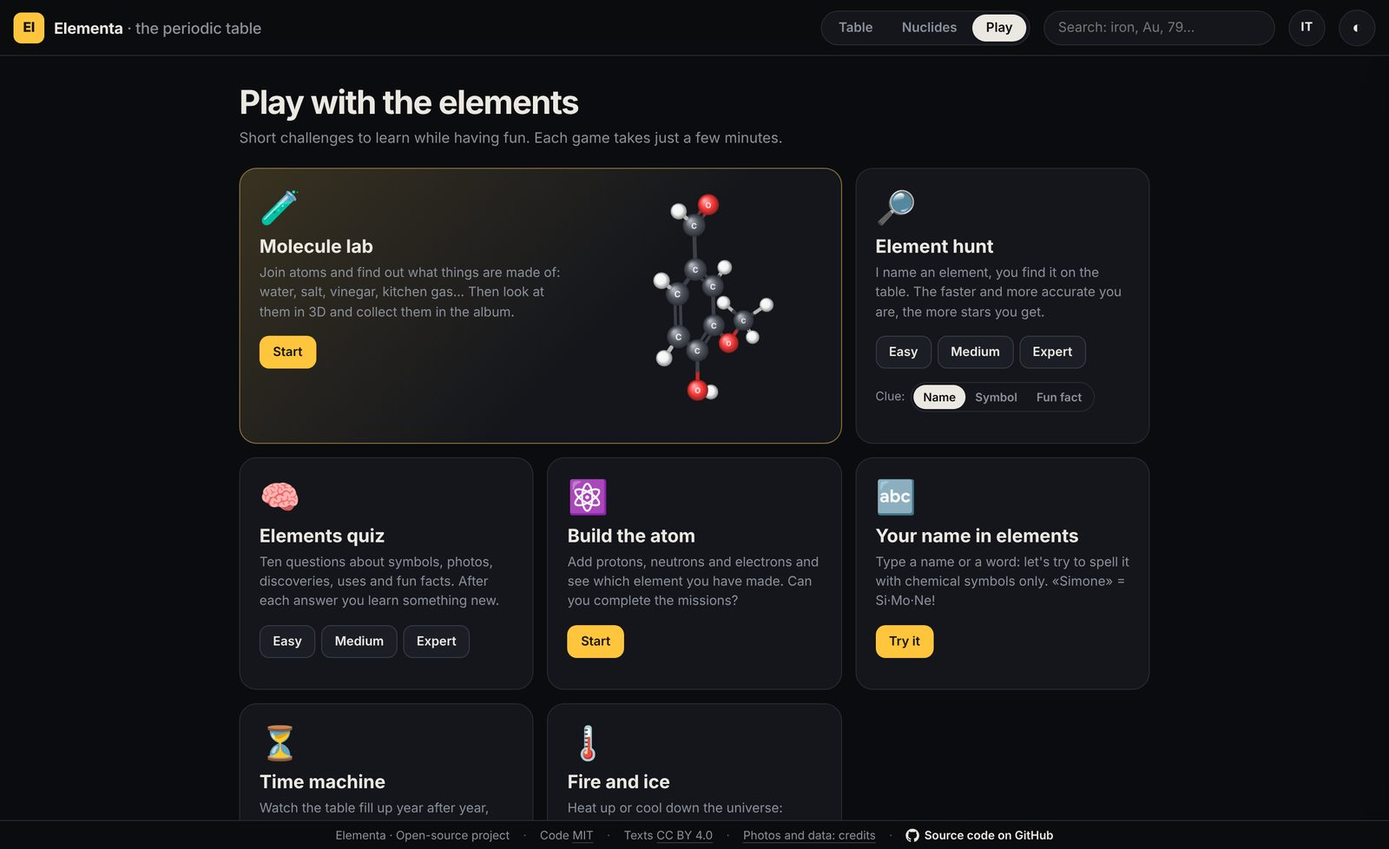
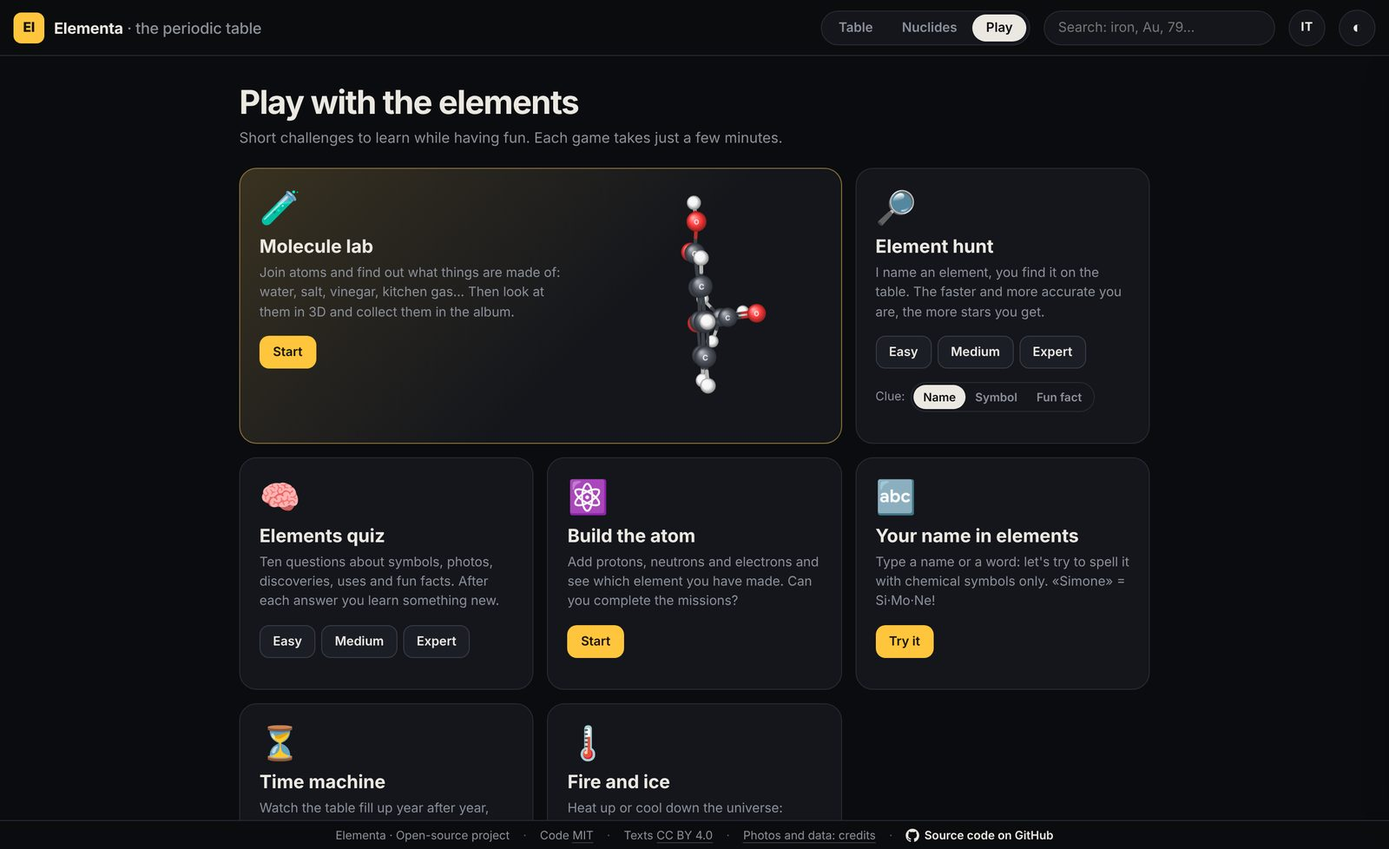
Molecule lab: atoms take the real shape; clearer electron cloud
- when a molecule is recognised the bench atoms glide into a projection of
  its real 3D geometry (skeleton face-on, slight tilt so no atom hides
  another, turned to match how it was built; back atoms smaller and darker);
  the 3D viewer starts from the same view
- measured gas-phase geometries for 16 small molecules where the force
  field was wrong (N2, HCl, CO2, SO2, CaCl2, NaOH...)
- electron cloud: soft glow per shell and bigger, more opaque dots,
  darker blue on the light theme

Claude-Session: https://claude.ai/code/session_01Aqc8M5EsAKSvzBTuftg5B6

Changed region(s): [[0.4688, 0.2147, 0.5625, 0.4908]]

diff --git a/lab.js b/lab.js
@@ -6,7 +6,7 @@ const MCOL = { H: '#f4f4f4', C: '#50555f', N: '#3d6bff', O: '#ff3b3b', S: '#f5c5
 const MRAD = { H: 0.26, C: 0.38, N: 0.37, O: 0.36, F: 0.34, S: 0.46, P: 0.46, Cl: 0.45, Na: 0.52, K: 0.56, Ca: 0.52 };   // ball size (Å)
 const VDW = { H: 1.1, C: 1.7, N: 1.55, O: 1.52, F: 1.47, S: 1.8, P: 1.8, Cl: 1.75, Na: 2.0, K: 2.2, Ca: 2.0 };          // space-filling (Å)
 const molInk = el => ['H', 'S', 'F'].includes(el) ? '#1a1b1f' : '#fff';
-function shade(hex, k) {   // k > 0 lighter, k < 0 darker
+function molShade(hex, k) {   // k > 0 lighter, k < 0 darker
   const n = parseInt(hex.slice(1), 16), c = [n >> 16, n >> 8 & 255, n & 255].map(v => Math.round(k > 0 ? v + (255 - v) * k : v * (1 + k)));
   return `rgb(${c})`;
 }
@@ -58,12 +58,12 @@ class Mol3D {
         for (let j = 0; j < it.o; j++) {
           const off = (j - (it.o - 1) / 2) * gap, ox = nx * off, oy = ny * off, mx = (A.X + B.X) / 2 + ox, my = (A.Y + B.Y) / 2 + oy;
           c.lineCap = 'round'; c.lineWidth = it.o > 1 ? lw * 0.75 : lw;
-          c.strokeStyle = shade(MCOL[A.el], -0.25); c.beginPath(); c.moveTo(A.X + ox, A.Y + oy); c.lineTo(mx, my); c.stroke();
+          c.strokeStyle = molShade(MCOL[A.el], -0.25); c.beginPath(); c.moveTo(A.X + ox, A.Y + oy); c.lineTo(mx, my); c.stroke();
         }
       } else {
         const p = P[it.i], r = (space ? VDW[p.el] * 0.95 : MRAD[p.el]) * s * p.k, col = MCOL[p.el];
         const g = c.createRadialGradient(p.X - r * 0.35, p.Y - r * 0.4, r * 0.1, p.X, p.Y, r);
-        g.addColorStop(0, shade(col, 0.55)); g.addColorStop(0.55, col); g.addColorStop(1, shade(col, -0.45));
+        g.addColorStop(0, molShade(col, 0.55)); g.addColorStop(0.55, col); g.addColorStop(1, molShade(col, -0.45));
         c.fillStyle = g; c.beginPath(); c.arc(p.X, p.Y, r, 0, 7); c.fill();
         if (r > 9 && (!space || p.el !== 'H' || r > 14)) {
           c.fillStyle = molInk(p.el); c.globalAlpha = 0.85; c.font = `700 ${Math.min(18, r * 0.75) | 0}px Inter,system-ui,sans-serif`;
@@ -234,7 +234,7 @@ App.lab = (() => {
       }
       return false;
     };
-    return go(0);
+    return go(0) ? map : null;
   }
   function analyse() {
     if (!S.atoms.length) return { st: 'empty' };
@@ -246,16 +246,97 @@ App.lab = (() => {
     const idx = new Map(S.atoms.map((a, i) => [a.id, i]));
     const G = graphOf(S.atoms.map(a => a.el), S.bonds.map(b => [idx.get(b.a), idx.get(b.b), b.o]));
     const same = buildable().filter(m => m.key === countKey(cnt));
-    const hit = same.find(m => isomorphic(G, graphOf(m.atoms, m.bonds)));
-    if (hit) return { st: 'hit', f, m: hit };
+    for (const m of same) { const map = isomorphic(G, graphOf(m.atoms, m.bonds)); if (map) return { st: 'hit', f, m, map }; }
     return { st: same.length ? 'isomer' : 'unknown', f, m: same[0] };
   }
 
+  /* --- true shape: when a molecule is recognised the atoms move to a projection of its real 3D geometry --- */
+  const PX = 64;   // pixels per ångström on the bench
+  let shown = null, anim = 0;
+  function eig3(A) {   // eigenvectors of a symmetric 3×3 matrix (Jacobi), largest eigenvalue first
+    const a = A.map(r => [...r]), v = [[1, 0, 0], [0, 1, 0], [0, 0, 1]];
+    for (let it = 0; it < 30; it++) for (const [p, q] of [[0, 1], [0, 2], [1, 2]]) {
+      if (Math.abs(a[p][q]) < 1e-12) continue;
+      const th = 0.5 * Math.atan2(2 * a[p][q], a[q][q] - a[p][p]), c = Math.cos(th), sn = Math.sin(th);
+      for (let k = 0; k < 3; k++) { const x = a[k][p], y = a[k][q]; a[k][p] = c * x - sn * y; a[k][q] = sn * x + c * y; }
+      for (let k = 0; k < 3; k++) { const x = a[p][k], y = a[q][k]; a[p][k] = c * x - sn * y; a[q][k] = sn * x + c * y; }
+      for (let k = 0; k < 3; k++) { const x = v[k][p], y = v[k][q]; v[k][p] = c * x - sn * y; v[k][q] = sn * x + c * y; }
+    }
+    return [0, 1, 2].sort((i, j) => a[j][j] - a[i][i]).map(i => [v[0][i], v[1][i], v[2][i]]);
+  }
+  const cross = (a, b) => [a[1] * b[2] - a[2] * b[1], a[2] * b[0] - a[0] * b[2], a[0] * b[1] - a[1] * b[0]];
+  const mul = (R, p) => R.map(r => r[0] * p[0] + r[1] * p[1] + r[2] * p[2]);
+  const mmul = (A, B) => A.map(r => [0, 1, 2].map(j => r[0] * B[0][j] + r[1] * B[1][j] + r[2] * B[2][j]));
+  function randRot(seed) {   // repeatable random rotation from a quaternion
+    let x = seed * 9301 + 49297; const rnd = () => (x = (x * 9301 + 49297) % 233280) / 233280;
+    const u1 = rnd(), u2 = rnd() * 2 * Math.PI, u3 = rnd() * 2 * Math.PI, a = Math.sqrt(1 - u1), b = Math.sqrt(u1);
+    const [qw, qx, qy, qz] = [a * Math.sin(u2), a * Math.cos(u2), b * Math.sin(u3), b * Math.cos(u3)];
+    return [[1 - 2 * (qy * qy + qz * qz), 2 * (qx * qy - qz * qw), 2 * (qx * qz + qy * qw)],
+      [2 * (qx * qy + qz * qw), 1 - 2 * (qx * qx + qz * qz), 2 * (qy * qz - qx * qw)],
+      [2 * (qx * qz - qy * qw), 2 * (qy * qz + qx * qw), 1 - 2 * (qx * qx + qy * qy)]];
+  }
+  // viewing direction: the skeleton (atoms other than H) seen face-on, tilted just enough that no atoms hide each other
+  const rotX = t => [[1, 0, 0], [0, Math.cos(t), -Math.sin(t)], [0, Math.sin(t), Math.cos(t)]];
+  const rotY = t => [[Math.cos(t), 0, Math.sin(t)], [0, 1, 0], [-Math.sin(t), 0, Math.cos(t)]];
+  function bestView(m) {
+    const P = m.atoms.map(([, x, y, z]) => [x, y, z]), n = P.length;
+    if (n < 3) return [[1, 0, 0], [0, 1, 0], [0, 0, 1]];
+    const heavy = m.atoms.filter(a => a[0] !== 'H').length >= 3 ? P.filter((p, i) => m.atoms[i][0] !== 'H') : P;
+    const c = [0, 1, 2].map(k => heavy.reduce((s, p) => s + p[k], 0) / heavy.length);
+    const C = [0, 1, 2].map(i => [0, 1, 2].map(j => heavy.reduce((s, p) => s + (p[i] - c[i]) * (p[j] - c[j]), 0)));
+    const [e1, e2] = eig3(C), pca = [e1, e2, cross(e1, e2)];
+    const minDist = R => { const Q = P.map(p => mul(R, p)); let md = 9; for (let i = 0; i < n; i++) for (let j = i + 1; j < n; j++) md = Math.min(md, Math.hypot(Q[i][0] - Q[j][0], Q[i][1] - Q[j][1])); return md; };
+    let best = null, bestTilt = 9, fallback = pca, fbScore = -1;
+    for (let i = -6; i <= 6; i++) for (let j = -6; j <= 6; j++) {
+      const R = mmul(rotX(i * 0.07), mmul(rotY(j * 0.07), pca)), md = minDist(R), tilt = Math.hypot(i, j);
+      if (md >= 0.6 && tilt < bestTilt) { bestTilt = tilt; best = R; }
+      if (md > fbScore) { fbScore = md; fallback = R; }
+    }
+    if (best) return best;
+    for (let k = 1; k <= 120; k++) { const R = randRot(k), md = minDist(R); if (md > fbScore) { fbScore = md; fallback = R; } }
+    return fallback;
+  }
+  function snapShape(r) {
+    const m = r.m, idx = S.atoms.map((a, i) => i), R0 = bestView(m);
+    const Q = m.atoms.map(([, x, y, z]) => mul(R0, [x, y, z]));
+    // user atoms (y up) and their partners in the catalogue, both centred
+    const U = S.atoms.map(a => [a.x, -a.y]), T = idx.map(i => Q[r.map[i]]);
+    const uc = [0, 1].map(k => U.reduce((s, p) => s + p[k], 0) / U.length), tc = [0, 1, 2].map(k => T.reduce((s, p) => s + p[k], 0) / T.length);
+    const u = U.map(p => [p[0] - uc[0], p[1] - uc[1]]), tt = T.map(p => [p[0] - tc[0], p[1] - tc[1], p[2] - tc[2]]);
+    // turn (and if better, flip) the shape to look as much as possible like what was built
+    let bestR = null, bestErr = Infinity;
+    for (const flip of [1, -1]) {
+      const q = tt.map(p => [p[0], p[1] * flip]);
+      let sxx = 0, sxy = 0; q.forEach((p, i) => { sxx += p[0] * u[i][0] + p[1] * u[i][1]; sxy += p[0] * u[i][1] - p[1] * u[i][0]; });
+      const th = Math.atan2(sxy, sxx), c = Math.cos(th), sn = Math.sin(th);
+      const err = q.reduce((s, p, i) => s + (c * p[0] - sn * p[1] - u[i][0] / PX) ** 2 + (sn * p[0] + c * p[1] - u[i][1] / PX) ** 2, 0);
+      if (err < bestErr) { bestErr = err; bestR = mmul([[c, -sn, 0], [sn, c, 0], [0, 0, 1]], mmul([[1, 0, 0], [0, flip, 0], [0, 0, flip]], R0)); }
+    }
+    const V = m.atoms.map(([, x, y, z]) => mul(bestR, [x, y, z])), vc = [0, 1, 2].map(k => V.reduce((s, p) => s + p[k], 0) / V.length);
+    const W = V.map(p => [p[0] - vc[0], p[1] - vc[1], p[2] - vc[2]]);
+    // scale to fit the bench, then centre where the molecule already was
+    const ex = Math.max(...W.map(p => Math.abs(p[0]))), ey = Math.max(...W.map(p => Math.abs(p[1])));
+    const s = Math.min(PX, (svgSize.w / 2 - 34) / (ex || 1), (svgSize.h / 2 - 34) / (ey || 1));
+    const cx = clamp(uc[0], ex * s + 30, svgSize.w - ex * s - 30), cy = clamp(-uc[1], ey * s + 30, svgSize.h - ey * s - 30);
+    const to = S.atoms.map((a, i) => { const p = W[r.map[i]]; return { x: cx + p[0] * s, y: cy - p[1] * s, z: p[2] * s }; });
+    shown = { id: m.id, mol: { ...m, atoms: m.atoms.map(([el], i) => [el, ...W[i]]) } };
+    const from = S.atoms.map(a => ({ x: a.x, y: a.y, z: a.z || 0 })), t0 = performance.now(), tok = ++anim;
+    const step = now => {
+      if (tok !== anim || !$('#lab-ws')) return;
+      const k = Math.min(1, (now - t0) / 750), e = 1 - (1 - k) ** 3;
+      S.atoms.forEach((a, i) => { a.x = from[i].x + (to[i].x - from[i].x) * e; a.y = from[i].y + (to[i].y - from[i].y) * e; a.z = from[i].z + (to[i].z - from[i].z) * e; });
+      renderWs(); if (k < 1) requestAnimationFrame(step);
+    };
+    requestAnimationFrame(step);
+  }
+
   function changed() {
-    renderWs();
+    anim++;
     const r = analyse(), key = r.st === 'hit' ? r.m.id : null;
+    if (!key) { shown = null; S.atoms.forEach(a => { a.z = 0; }); }
+    renderWs();
     const fresh = key && key !== last;
-    if (fresh) celebrate(r.m);
+    if (fresh) { snapShape(r); celebrate(r.m); }
     last = key; renderSide(r);
     // on phones the result card is below the bench: bring it into view
     if (fresh && innerWidth <= 820) setTimeout(() => { const sd = $('#lab-side'); if (sd) sd.scrollIntoView({ behavior: 'smooth', block: 'start' }); }, 700);
@@ -311,15 +392,15 @@ App.lab = (() => {
   }
   function renderWs() {
     const svg = $('#lab-ws'); if (!svg) return;
-    let s = '<defs>' + PALETTE.map(el => `<radialGradient id="mg-${el}" cx="35%" cy="32%" r="75%"><stop offset="0" stop-color="${shade(MCOL[el], 0.55)}"/><stop offset=".6" stop-color="${MCOL[el]}"/><stop offset="1" stop-color="${shade(MCOL[el], -0.4)}"/></radialGradient>`).join('') + '</defs>';
+    let s = '<defs>' + PALETTE.map(el => `<radialGradient id="mg-${el}" cx="35%" cy="32%" r="75%"><stop offset="0" stop-color="${molShade(MCOL[el], 0.55)}"/><stop offset=".6" stop-color="${MCOL[el]}"/><stop offset="1" stop-color="${molShade(MCOL[el], -0.4)}"/></radialGradient>`).join('') + '</defs>';
     S.bonds.forEach((b, i) => {
       const A = atom(b.a), B = atom(b.b), dx = B.x - A.x, dy = B.y - A.y, L = Math.hypot(dx, dy) || 1, nx = -dy / L * 7, ny = dx / L * 7;
       s += `<g class="bond" data-b="${i}"><line class="hit" x1="${A.x}" y1="${A.y}" x2="${B.x}" y2="${B.y}"/>`;
       for (let j = 0; j < b.o; j++) { const k = j - (b.o - 1) / 2; s += `<line x1="${A.x + nx * k}" y1="${A.y + ny * k}" x2="${B.x + nx * k}" y2="${B.y + ny * k}"/>`; }
       s += '</g>';
     });
-    S.atoms.forEach(a => {
-      const r = RAD(a.el), hd = hands(a.id), ok = done(a.id);
+    [...S.atoms].sort((p, q) => (p.z || 0) - (q.z || 0)).forEach(a => {
+      const dz = clamp((a.z || 0) / 90, -0.45, 0.45), r = RAD(a.el) * (1 + dz * 0.5), hd = hands(a.id), ok = done(a.id);
       let dots = '';
       if (!ok && hd > 0) {
         const taken = bondsOf(a.id).map(b => { const o = atom(other(b, a.id)); return Math.atan2(o.y - a.y, o.x - a.x); });
@@ -332,7 +413,7 @@ App.lab = (() => {
         dots = angs.map(ang => `<circle class="hand" cx="${a.x + Math.cos(ang) * (r + 8)}" cy="${a.y + Math.sin(ang) * (r + 8)}" r="4.2"/>`).join('');
       }
       s += `<g class="atom${S.sel === a.id ? ' sel' : ''}${ok ? ' ok' : ''}" data-a="${a.id}">${S.sel === a.id ? `<circle class="ring" cx="${a.x}" cy="${a.y}" r="${r + 7}"/>` : ''}${dots}
-        <circle cx="${a.x}" cy="${a.y}" r="${r}" fill="url(#mg-${a.el})"/><text x="${a.x}" y="${a.y + 1}" fill="${molInk(a.el)}" font-size="${a.el.length > 1 ? 15 : 17}">${a.el}</text></g>`;
+        <circle cx="${a.x}" cy="${a.y}" r="${r}" fill="url(#mg-${a.el})"/>${dz < -0.05 ? `<circle class="shade" cx="${a.x}" cy="${a.y}" r="${r}" fill-opacity="${(-dz * 0.9).toFixed(2)}"/>` : ''}<text x="${a.x}" y="${a.y + 1}" fill="${molInk(a.el)}" font-size="${(a.el.length > 1 ? 15 : 17) * (1 + dz * 0.4)}">${a.el}</text></g>`;
     });
     if (!S.atoms.length) s += `<text class="ws-empty" x="${svgSize.w / 2}" y="${svgSize.h / 2}">${t('lab.empty')}</text>`;
     svg.innerHTML = s;
@@ -345,6 +426,7 @@ App.lab = (() => {
     svg.addEventListener('pointerdown', e => {
       const ga = e.target.closest('[data-a]'), gb = e.target.closest('[data-b]');
       if (ga) {
+        anim++;
         const a = atom(+ga.dataset.a), p = pt(e);
         d = { id: a.id, sx: e.clientX, sy: e.clientY, ox: a.x - p.x, oy: a.y - p.y, moved: false };
         svg.setPointerCapture(e.pointerId);
@@ -377,8 +459,9 @@ App.lab = (() => {
   function viewerHTML(id) {
     return `<div class="mol-view"><canvas id="${id}"></canvas><span class="seg mol-mode"><button data-mode="ball" class="active">${t('lab.balls')}</button><button data-mode="space">${t('lab.space')}</button></span><span class="mol-tip">${t('lab.rotate')}</span></div>`;
   }
-  function wireViewer(box, m) {
+  function wireViewer(box, m, same) {
     const v = new Mol3D(box.querySelector('canvas'), m);
+    if (same) { v.yaw = 0; v.pitch = 0; v.auto = false; v.rest = performance.now(); }
     box.querySelectorAll('[data-mode]').forEach(b => b.onclick = () => { v.mode = b.dataset.mode; box.querySelectorAll('[data-mode]').forEach(x => x.classList.toggle('active', x === b)); });
     box.parentElement.querySelectorAll('[data-z]').forEach(c => c.onclick = () => App.panel.openElement(+c.dataset.z));
   }
@@ -397,7 +480,7 @@ App.lab = (() => {
     let st;
     if (r.st === 'hit') {
       const m = r.m;
-      st = `<div class="mol-card"><div class="mol-title"><span class="mol-f">${m.f}</span><h2>${esc(mtx(m).n)}</h2></div>${viewerHTML('lab-3d')}${infoHTML(m)}
+      st = `<div class="mol-card"><div class="mol-title"><span class="mol-f">${m.f}</span><h2>${esc(mtx(m).n)}</h2></div><p class="note lab-shape">${t('lab.shape')}</p>${viewerHTML('lab-3d')}${infoHTML(m)}
         <button class="btn primary" id="lab-again" style="margin-top:12px;width:100%">${t('lab.again')}</button></div>`;
     } else {
       const msg = { empty: t('lab.start'), open: S.sel ? t('lab.selected', esc(nm(App.E[ZOF[atom(S.sel).el] - 1]))) : t('lab.free', r.free), pieces: t('lab.pieces', r.parts),
@@ -409,7 +492,7 @@ App.lab = (() => {
     const sk = $('#lab-skip'); if (sk) sk.onclick = ev => { ev.preventDefault(); store.set('labMission', store.get('labMission', 0) + 1); renderSide(r); };
     const ag = $('#lab-again'); if (ag) ag.onclick = () => { snap(); S = { atoms: [], bonds: [], sel: null, next: S.next }; changed(); };
     $('#lab-album').onclick = albumView;
-    if (r.st === 'hit') wireViewer(side.querySelector('.mol-view'), r.m);
+    if (r.st === 'hit') { const own = shown && shown.id === r.m.id; wireViewer(side.querySelector('.mol-view'), own ? shown.mol : r.m, own); }
   }
 
   /* --- album --- */

diff --git a/i18n.js b/i18n.js
@@ -141,7 +141,7 @@ const STR = {
     'lab.allDone': 'Hai completato tutte le missioni! 🏆 Costruisci quello che vuoi o guarda le molecole famose nell\'album.',
     'lab.where': 'Dove si trova:', 'lab.use': 'A cosa serve:', 'lab.fun': 'Lo sapevi?', 'lab.again': 'Costruisci un\'altra molecola',
     'lab.ionicT': 'Un composto ionico', 'lab.ionic': 'Qui un atomo cede uno o più elettroni all\'altro: diventano ioni con carica opposta e si attirano. Nel solido non ci sono coppie separate ma un cristallo con miliardi di ioni in fila. Nel gioco lo disegniamo come una molecola per semplicità.',
-    'lab.balls': 'Sfere e bastoncini', 'lab.space': 'Volume', 'lab.rotate': 'Trascina per ruotare', 'lab.trash': 'Trascina qui per eliminare',
+    'lab.shape': 'Sul banco gli atomi hanno preso la forma vera della molecola, vista da un lato: quelli più piccoli e scuri stanno dietro. Qui sotto puoi girarla in 3D.', 'lab.balls': 'Sfere e bastoncini', 'lab.space': 'Volume', 'lab.rotate': 'Trascina per ruotare', 'lab.trash': 'Trascina qui per eliminare',
     'lab.album': 'Album', 'lab.albumTitle': 'Album delle molecole', 'lab.albumSub': 'Le molecole che hai costruito. Quelle col lucchetto ti aspettano in laboratorio: toccane una per provarci.',
     'lab.built': (a, b) => `Costruite ${a} su ${b}`, 'lab.famous': 'Molecole famose', 'lab.famousTxt': 'Troppo grandi da costruire a mano: guardale in 3D e scopri di cosa sono fatte.', 'lab.close': 'Chiudi',
     'g.tempToast': 'Muovi il cursore della temperatura!', 'g.games': 'Giochi', 'g.newRecord': 'Nuovo record!', 'g.playAgain': 'Gioca ancora',
@@ -296,7 +296,7 @@ const STR = {
     'lab.allDone': 'You completed every mission! 🏆 Build whatever you like or look at the famous molecules in the album.',
     'lab.where': 'Where it is found:', 'lab.use': 'What it is for:', 'lab.fun': 'Did you know?', 'lab.again': 'Build another molecule',
     'lab.ionicT': 'An ionic compound', 'lab.ionic': 'Here one atom gives one or more electrons to the other: they become ions with opposite charges that attract each other. A solid has no separate pairs but a crystal with billions of ions in rows. The game draws it as a molecule to keep things simple.',
-    'lab.balls': 'Ball and stick', 'lab.space': 'Volume', 'lab.rotate': 'Drag to rotate', 'lab.trash': 'Drag here to delete',
+    'lab.shape': 'On the bench the atoms have taken the real shape of the molecule, seen from one side: the smaller, darker ones are at the back. Below you can turn it in 3D.', 'lab.balls': 'Ball and stick', 'lab.space': 'Volume', 'lab.rotate': 'Drag to rotate', 'lab.trash': 'Drag here to delete',
     'lab.album': 'Album', 'lab.albumTitle': 'Molecule album', 'lab.albumSub': 'The molecules you have built. The locked ones are waiting for you in the lab: tap one to have a go.',
     'lab.built': (a, b) => `${a} of ${b} built`, 'lab.famous': 'Famous molecules', 'lab.famousTxt': 'Too big to build by hand: look at them in 3D and see what they are made of.', 'lab.close': 'Close',
     'g.tempToast': 'Move the temperature slider!', 'g.games': 'Games', 'g.newRecord': 'New record!', 'g.playAgain': 'Play again',

diff --git a/atom.js b/atom.js
@@ -51,15 +51,21 @@ class AtomView {
         if (this.labels) { ctx.fillStyle = muted; ctx.font = '600 10px JetBrains Mono, monospace'; ctx.textAlign = 'left'; ctx.fillText('KLMNOPQ'[i] + ' ' + this.sh[i], g.cx + r * 0.707 + 4, g.cy - r * 0.707 - 4); }
       });
     } else {
-      // nuvola: punti casuali distribuiti attorno ai livelli
+      // nuvola: un alone per ogni guscio, più denso dove ci sono più elettroni, più i punti dove «potrebbe» essere un elettrone
+      const light = document.documentElement.dataset.theme === 'light', col = light ? '0,120,200' : '76,195,255';
       g.radii.forEach((r, i) => {
-        const cnt = this.sh[i] * 34, sd = (g.maxR - g.rN) / (this.sh.length * 2.6 + 1);
-        ctx.fillStyle = ECOL;
+        const sd = (g.maxR - g.rN) / (this.sh.length * 2.6 + 1), r0 = Math.max(g.rN + 2, r - 2.6 * sd), r1 = r + 2.6 * sd;
+        const a = Math.min(light ? 0.42 : 0.5, (light ? 0.14 : 0.16) + 0.035 * this.sh[i]);
+        const gr = ctx.createRadialGradient(g.cx, g.cy, r0, g.cx, g.cy, r1), mid = clamp((r - r0) / (r1 - r0), 0.05, 0.95);
+        gr.addColorStop(0, `rgba(${col},0)`); gr.addColorStop(mid, `rgba(${col},${a})`); gr.addColorStop(1, `rgba(${col},0)`);
+        ctx.fillStyle = gr; ctx.beginPath(); ctx.arc(g.cx, g.cy, r1, 0, 6.283); ctx.arc(g.cx, g.cy, r0, 0, 6.283, true); ctx.fill();
+        const cnt = this.sh[i] * 40;
+        ctx.fillStyle = light ? '#0a7fd0' : ECOL;
         for (let k = 0; k < cnt; k++) {
-          const a = Math.random() * 6.283, u = (Math.random() + Math.random() + Math.random() - 1.5) * 1.6;
+          const an = Math.random() * 6.283, u = (Math.random() + Math.random() + Math.random() - 1.5) * 1.6;
           const rr = Math.max(g.rN + 3, r + u * sd);
-          ctx.globalAlpha = 0.18 + Math.random() * 0.25;
-          ctx.fillRect(g.cx + Math.cos(a) * rr, g.cy + Math.sin(a) * rr, 1.6, 1.6);
+          ctx.globalAlpha = 0.4 + Math.random() * 0.5;
+          ctx.beginPath(); ctx.arc(g.cx + Math.cos(an) * rr, g.cy + Math.sin(an) * rr, 1.5, 0, 6.283); ctx.fill();
         }
       });
       ctx.globalAlpha = 1;

diff --git a/style.css b/style.css
@@ -311,6 +311,8 @@ table.props td:last-child{font-family:var(--mono);font-size:12.5px}
 .lab-ws .atom{cursor:grab}
 .lab-ws .atom>circle:not(.hand):not(.ring){stroke:rgba(0,0,0,.35);stroke-width:1}
 .lab-ws .atom text{text-anchor:middle;dominant-baseline:central;font-weight:700;font-family:var(--sans);pointer-events:none}
+.lab-ws .shade{fill:#000;pointer-events:none}
+.lab-shape{margin:-4px 0 10px}
 .lab-ws .hand{fill:var(--accent);stroke:var(--surface2);stroke-width:1.5}
 .lab-ws .ring{fill:color-mix(in srgb,var(--accent) 18%,transparent);stroke:var(--accent);stroke-width:2.5;stroke-dasharray:5 4;animation:ring 6s linear infinite}
 @keyframes ring{to{stroke-dashoffset:-90}}

diff --git a/tools/build_molecules.py b/tools/build_molecules.py
@@ -4,7 +4,7 @@ Genera molecules.json da tools/molecole.py con RDKit (coordinate 3D).
     pip install rdkit
     python tools/build_molecules.py
 """
-import json, os, sys
+import json, math, os, sys
 from rdkit import Chem
 from rdkit.Chem import AllChem
 
@@ -20,6 +20,27 @@ COMMON = {'h2o': 'H2O', 'h2o2': 'H2O2', 'co2': 'CO2', 'h2co3': 'H2CO3', 'nh3': '
           'acetic': 'CH3COOH', 'urea': 'CO(NH2)2', 'so2': 'SO2', 'h2so4': 'H2SO4', 'h3po4': 'H3PO4',
           'nacl': 'NaCl', 'kcl': 'KCl', 'naoh': 'NaOH', 'naclo': 'NaClO', 'nahco3': 'NaHCO3',
           'cacl2': 'CaCl2', 'cao': 'CaO'}
+# Small molecules where the force field is unreliable: measured gas-phase geometry
+# (bond lengths in Å, angles in degrees; NIST CCCBDB / CRC Handbook). Atom order = RDKit order.
+# Piccole molecole dove il campo di forza non è affidabile: geometria sperimentale in fase gassosa.
+def _di(d): return [(-d / 2, 0, 0), (d / 2, 0, 0)]
+def _bent(r, ang, centre):  # X-A-X with A at index `centre`
+    a = math.radians(ang) / 2
+    xs = [(-r * math.sin(a), -r * math.cos(a), 0), (r * math.sin(a), -r * math.cos(a), 0)]
+    xs.insert(centre, (0, 0, 0))
+    return xs
+def _lin(*ds):  # atoms on a line, distances between neighbours
+    x, out = 0, [(0, 0, 0)]
+    for d in ds: x += d; out.append((x, 0, 0))
+    return out
+MEASURED = {
+    'h2': ('HH', _di(0.741)), 'o2': ('OO', _di(1.208)), 'n2': ('NN', _di(1.098)), 'cl2': ('ClCl', _di(1.988)),
+    'f2': ('FF', _di(1.412)), 'hcl': ('ClH', _di(1.275)), 'hf': ('FH', _di(0.917)),
+    'h2o': ('OHH', _bent(0.958, 104.48, 0)), 'h2s': ('SHH', _bent(1.336, 92.1, 0)),
+    'co2': ('OCO', _lin(1.160, 1.160)), 'so2': ('OSO', _bent(1.431, 119.3, 1)),
+    'nacl': ('NaCl', _di(2.361)), 'kcl': ('KCl', _di(2.667)), 'cao': ('CaO', _di(1.822)),
+    'cacl2': ('ClCaCl', _lin(2.483, 2.483)), 'naoh': ('NaOH', _lin(1.950, 0.958)),
+}
 SUB = str.maketrans('0123456789', '₀₁₂₃₄₅₆₇₈₉')
 
 
@@ -49,13 +70,16 @@ def build(mid, smi, kind):
     except Exception:
         pass
     conf = mol.GetConformer()
-    pts = [conf.GetAtomPosition(i) for i in range(mol.GetNumAtoms())]
-    cx = sum(q.x for q in pts) / len(pts); cy = sum(q.y for q in pts) / len(pts); cz = sum(q.z for q in pts) / len(pts)
+    pts = [tuple(conf.GetAtomPosition(i)) for i in range(mol.GetNumAtoms())]
+    syms = [a.GetSymbol() for a in mol.GetAtoms()]
+    if mid in MEASURED:
+        order, pts = MEASURED[mid]
+        assert ''.join(syms) == order, (mid, syms)
+    cx, cy, cz = (sum(q[k] for q in pts) / len(pts) for k in range(3))
     atoms, counts = [], {}
-    for a, q in zip(mol.GetAtoms(), pts):
-        s = a.GetSymbol()
+    for s, q in zip(syms, pts):
         counts[s] = counts.get(s, 0) + 1
-        atoms.append([s, round(q.x - cx, 2), round(q.y - cy, 2), round(q.z - cz, 2)])
+        atoms.append([s, round(q[0] - cx, 3), round(q[1] - cy, 3), round(q[2] - cz, 3)])
     if kind in 'bi':  # every atom must obey the game's valence rules
         tot = [0] * len(atoms)
         for i, j, o in bonds:

diff --git a/README.md b/README.md
@@ -48,7 +48,7 @@ Elementa runs in the browser, on desktop and phone, with nothing to install and 
   - *Data*: full physical and chemical properties.
 - **Isotope detail** – half-life with child-friendly comparisons, decay modes explained, the full decay chain (e.g. uranium-238 → lead-206) and a half-life simulator with 100 atoms.
 - **Chart of nuclides** – every known nucleus, zoomable, coloured by decay mode or half-life.
-- **Molecule lab** – every atom has «hands» (its valence): join them into molecules and the lab recognises 43 common substances (water, salt, vinegar, kitchen gas, baking soda…), shows them in 3D with where they are found and what they are for, and collects them in an album. Missions grow step by step, «same atoms, different molecule» isomers are explained, and 13 famous molecules (caffeine, sugar, aspirin, vitamin C…) can be viewed in 3D.
+- **Molecule lab** – every atom has «hands» (its valence): join them into molecules and the lab recognises 43 common substances (water, salt, vinegar, kitchen gas, baking soda…), moves the atoms into the molecule's real shape (measured or computed geometry, seen from one side with depth), shows it in 3D with where it is found and what it is for, and collects it in an album. Missions grow step by step, «same atoms, different molecule» isomers are explained, and 13 famous molecules (caffeine, sugar, aspirin, vitamin C…) can be viewed in 3D.
 - **Games** – element hunt (3 levels), quiz with always-different questions (also about photos), build the atom with missions, your name in chemical symbols, time machine, fire and ice.
 - **Two languages** – Italian and English, switchable at any time with the IT/EN button (the first choice follows the browser language).
 
@@ -141,7 +141,7 @@ The texts were written with the help of an AI model and checked by hand on a sam
   - *Dati*: proprietà fisiche e chimiche complete.
 - **Dettaglio isotopo** – tempo di dimezzamento con paragoni comprensibili, decadimenti spiegati, catena di decadimento completa (es. uranio-238 → piombo-206) e simulatore del dimezzamento con 100 atomi.
 - **Carta dei nuclidi** – tutti i nuclei conosciuti, zoomabili, colorati per decadimento o per durata.
-- **Laboratorio delle molecole** – ogni atomo ha delle «mani» (la valenza): uniscili in molecole e il laboratorio riconosce 43 sostanze comuni (acqua, sale, aceto, gas dei fornelli, bicarbonato…), le mostra in 3D con dove si trovano e a cosa servono e le raccoglie in un album. Missioni a difficoltà crescente, spiegazione degli isomeri («stessi atomi, molecola diversa») e 13 molecole famose (caffeina, zucchero, aspirina, vitamina C…) da guardare in 3D.
+- **Laboratorio delle molecole** – ogni atomo ha delle «mani» (la valenza): uniscili in molecole e il laboratorio riconosce 43 sostanze comuni (acqua, sale, aceto, gas dei fornelli, bicarbonato…), sistema gli atomi nella forma vera della molecola (geometria misurata o calcolata, vista di lato con la profondità), la mostra in 3D con dove si trova e a cosa serve e la raccoglie in un album. Missioni a difficoltà crescente, spiegazione degli isomeri («stessi atomi, molecola diversa») e 13 molecole famose (caffeina, zucchero, aspirina, vitamina C…) da guardare in 3D.
 - **Giochi** – caccia all'elemento (3 livelli), quiz con domande sempre diverse (anche sulle foto), costruisci l'atomo con missioni, il tuo nome con i simboli chimici, macchina del tempo, fuoco e ghiaccio.
 - **Due lingue** – italiano e inglese, si cambia in qualsiasi momento con il pulsante IT/EN (la prima volta segue la lingua del browser).
 

diff --git a/CREDITS.md b/CREDITS.md
@@ -76,9 +76,9 @@ Proprietà fisiche e chimiche, configurazioni elettroniche e dati sugli isotopi 
 
 ### Molecules / Molecole (`molecules.json`)
 
-The molecule list, their SMILES strings and texts were written for Elementa (texts: CC BY 4.0, see `LICENSE-CONTENT.md`). The 3D atom coordinates were computed at build time with **RDKit** — https://www.rdkit.org — **BSD 3-Clause License** (ETKDG embedding and MMFF/UFF force-field optimisation). RDKit itself is not distributed with Elementa. Atom colours follow the conventional CPK scheme.
+The molecule list, their SMILES strings and texts were written for Elementa (texts: CC BY 4.0, see `LICENSE-CONTENT.md`). The 3D atom coordinates were computed at build time with **RDKit** — https://www.rdkit.org — **BSD 3-Clause License** (ETKDG embedding and MMFF/UFF force-field optimisation). For 16 small molecules (diatomics, H₂O, H₂S, CO₂, SO₂, NaOH, CaCl₂…) the measured gas-phase geometry is used instead (NIST CCCBDB / CRC Handbook values). RDKit itself is not distributed with Elementa. Atom colours follow the conventional CPK scheme.
 
-L'elenco delle molecole, le stringhe SMILES e i testi sono scritti per Elementa (testi CC BY 4.0). Le coordinate 3D degli atomi sono calcolate con **RDKit** (licenza BSD 3-Clause), usato solo per generare il file e non distribuito con l'app. I colori degli atomi seguono la convenzione CPK.
+L'elenco delle molecole, le stringhe SMILES e i testi sono scritti per Elementa (testi CC BY 4.0). Le coordinate 3D degli atomi sono calcolate con **RDKit** (licenza BSD 3-Clause), usato solo per generare il file e non distribuito con l'app; per 16 molecole piccole si usa la geometria sperimentale in fase gassosa (valori NIST CCCBDB / CRC Handbook). I colori degli atomi seguono la convenzione CPK.
 
 ## 3. Fonts / Caratteri
 
